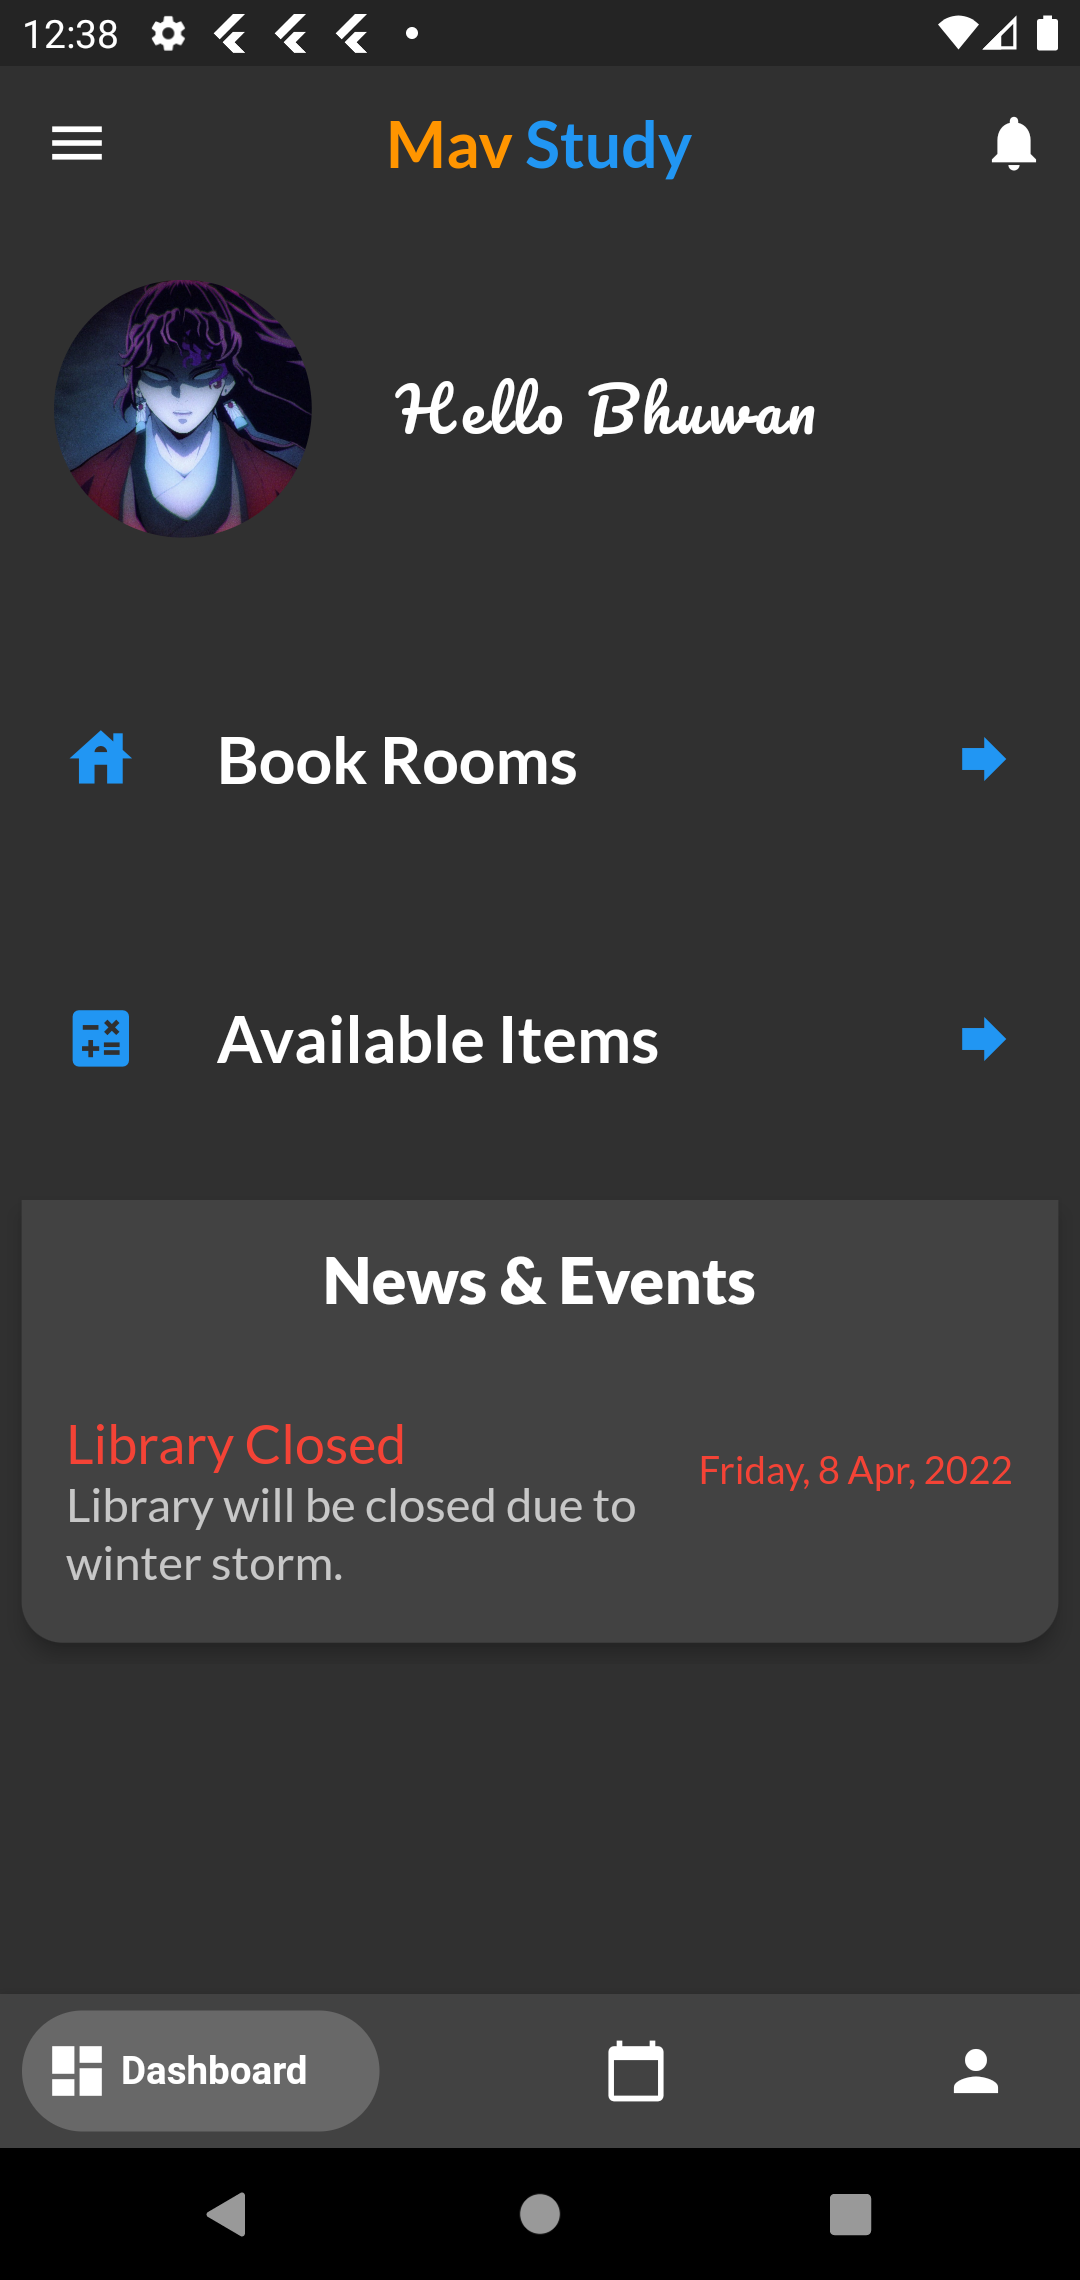
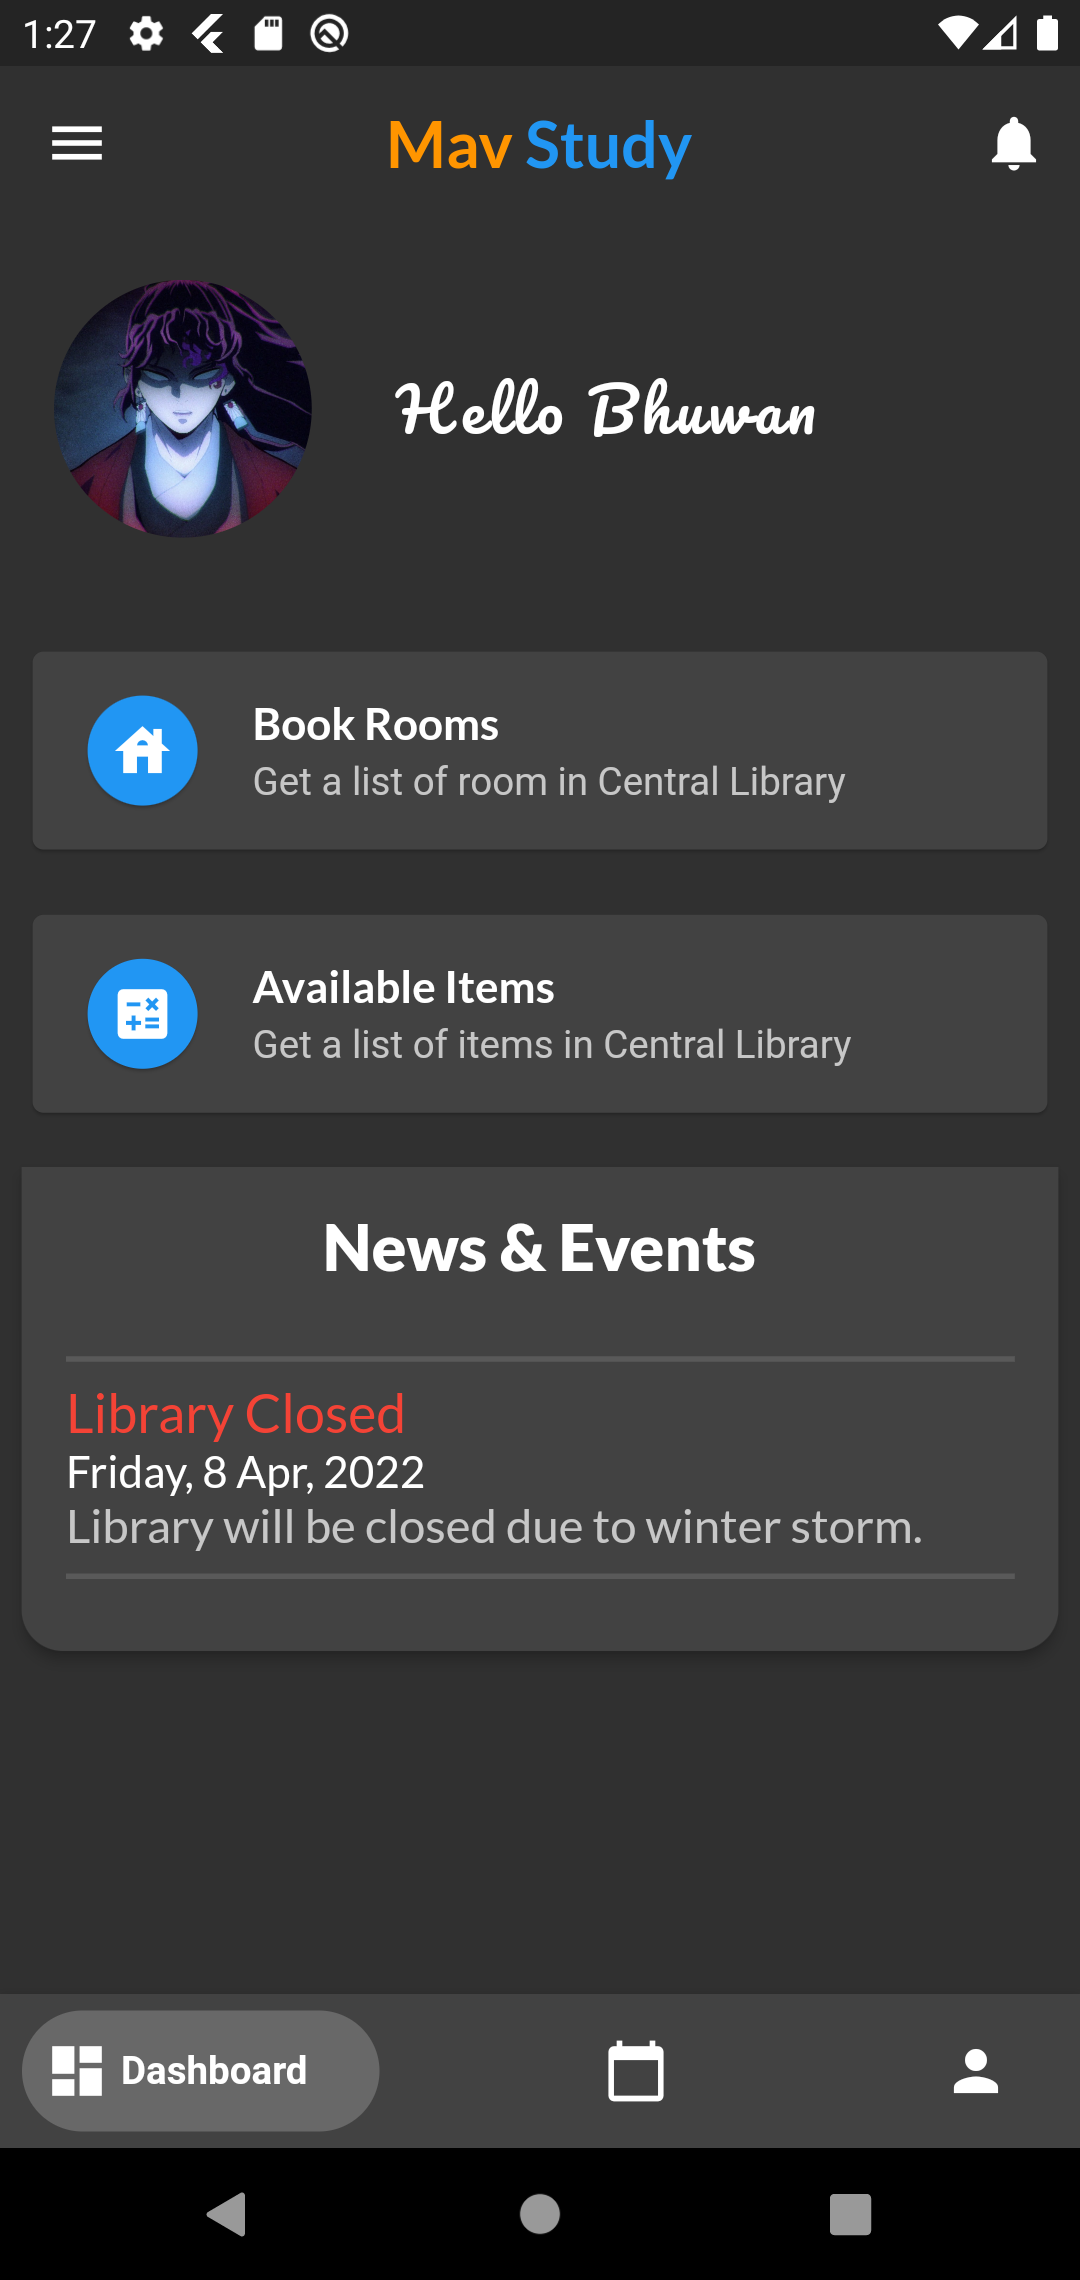
IOS support

diff --git a/lib/pages/dashboard/components/events_builder.dart b/lib/pages/dashboard/components/events_builder.dart
@@ -14,12 +14,16 @@ class EventsBuilder extends StatelessWidget {
         borderRadius: BorderRadius.only(
             bottomLeft: Radius.circular(15), bottomRight: Radius.circular(15)),
       ),
-      elevation: 6.0,
+      elevation: 4.0,
       margin: EdgeInsets.all(customSize(context).width * 0.02),
       child: Column(
         children: [
           Padding(
-            padding: const EdgeInsets.all(15.0),
+            padding: const EdgeInsets.only(
+              top: 15.0,
+              left: 15.0,
+              right: 15.0,
+            ),
             child: Text(
               "News & Events",
               style: GoogleFonts.lato(
@@ -52,21 +56,39 @@ class EventsBuilder extends StatelessWidget {
                       itemCount: snapshot.data!.docs.length,
                       itemBuilder: (context, i) {
                         return ListTile(
-                          title: Text(
-                            snapshot.data!.docs[i]["title"],
-                            style: GoogleFonts.lato(
-                                color: Colors.red,
-                                fontSize: customSize(context).height * 0.025),
+                          title: Column(
+                            crossAxisAlignment: CrossAxisAlignment.start,
+                            children: [
+                              const Divider(
+                                thickness: 2,
+                              ),
+                              Text(
+                                snapshot.data!.docs[i]["title"],
+                                style: GoogleFonts.lato(
+                                    color: Colors.red,
+                                    fontSize:
+                                        customSize(context).height * 0.025),
+                              ),
+                              Text(
+                                Intl().date("EEEE, d MMM, yyyy").format(
+                                    snapshot.data!.docs[i]["date"].toDate()),
+                                style: GoogleFonts.lato(),
+                              ),
+                            ],
                           ),
-                          trailing: Text(
-                            Intl().date("EEEE, d MMM, yyyy").format(
-                                snapshot.data!.docs[i]["date"].toDate()),
-                            style: GoogleFonts.lato(color: Colors.red),
-                          ),
-                          subtitle: Text(
-                            snapshot.data!.docs[i]["content"],
-                            style: GoogleFonts.lato(
-                                fontSize: customSize(context).height * 0.022),
+                          subtitle: Column(
+                            crossAxisAlignment: CrossAxisAlignment.start,
+                            children: [
+                              Text(
+                                snapshot.data!.docs[i]["content"],
+                                style: GoogleFonts.lato(
+                                    fontSize:
+                                        customSize(context).height * 0.022),
+                              ),
+                              const Divider(
+                                thickness: 2,
+                              )
+                            ],
                           ),
                         );
                       });

diff --git a/lib/pages/dashboard/components/dashboard_tile.dart b/lib/pages/dashboard/components/dashboard_tile.dart
@@ -4,13 +4,14 @@ import 'package:uta_library/tools/custom_size.dart';
 import 'package:uta_library/tools/theme_tools.dart';
 
 class DashboardTile extends StatelessWidget {
-  final String title;
+  final String title, subtitle;
   final IconData leadingIcon;
   final void Function()? onTap;
   const DashboardTile({
     Key? key,
     required this.leadingIcon,
     required this.title,
+    required this.subtitle,
     this.onTap,
   }) : super(key: key);
 
@@ -19,26 +20,29 @@ class DashboardTile extends StatelessWidget {
     return SliverPadding(
       padding: EdgeInsets.all(customSize(context).width * 0.02),
       sliver: SliverToBoxAdapter(
-        child: ListTile(
-          contentPadding: const EdgeInsets.all(15.0),
-          title: Text(
-            title,
-            style: GoogleFonts.lato(
-              fontSize: customSize(context).height * 0.03,
-              fontWeight: FontWeight.bold,
-              // color: Colors.white,
+        child: Card(
+          child: ListTile(
+            title: Text(
+              title,
+              style: GoogleFonts.lato(
+                fontWeight: FontWeight.bold,
+                // color: Colors.white,
+              ),
             ),
+            subtitle: Text(subtitle),
+            leading: Card(
+              color: ThemeTools.secondaryColor,
+              shape: const CircleBorder(),
+              child: Padding(
+                padding: const EdgeInsets.all(8.0),
+                child: Icon(
+                  leadingIcon,
+                  color: Colors.white,
+                ),
+              ),
+            ),
+            onTap: onTap,
           ),
-          leading: Icon(
-            leadingIcon,
-            size: customSize(context).height * 0.035,
-            color: ThemeTools.secondaryColor,
-          ),
-          trailing: Icon(
-            Icons.forward,
-            color: ThemeTools.secondaryColor,
-          ),
-          onTap: onTap,
         ),
       ),
     );

diff --git a/lib/pages/dashboard/dashboard.dart b/lib/pages/dashboard/dashboard.dart
@@ -36,6 +36,7 @@ class Dashboard extends StatelessWidget {
         DashboardTile(
           leadingIcon: Icons.house,
           title: "Book Rooms",
+          subtitle: "Get a list of room in Central Library",
           onTap: () {
             customNavigator(context, RoomsUI(user: user));
           },
@@ -43,6 +44,7 @@ class Dashboard extends StatelessWidget {
         DashboardTile(
           leadingIcon: Icons.calculate,
           title: "Available Items",
+          subtitle: "Get a list of items in Central Library",
           onTap: () {
             customNavigator(context, ItemsUI(user: user));
           },

diff --git a/lib/uis/history_ui/history_ui.dart b/lib/uis/history_ui/history_ui.dart
@@ -29,6 +29,7 @@ class _HistoryUIState extends State<HistoryUI> {
         slivers: [
           SliverAppBar(
             pinned: true,
+            centerTitle: true,
             title: Text(
               "History",
               style: GoogleFonts.lato(
